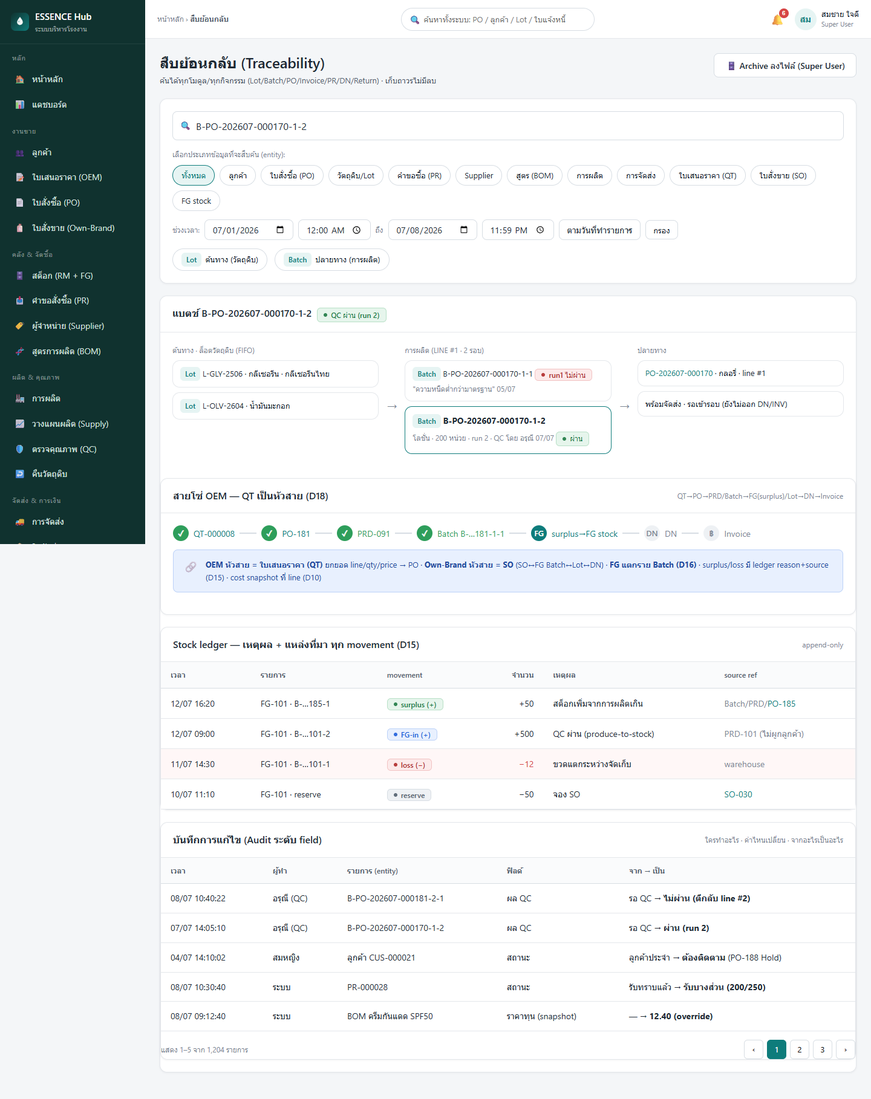
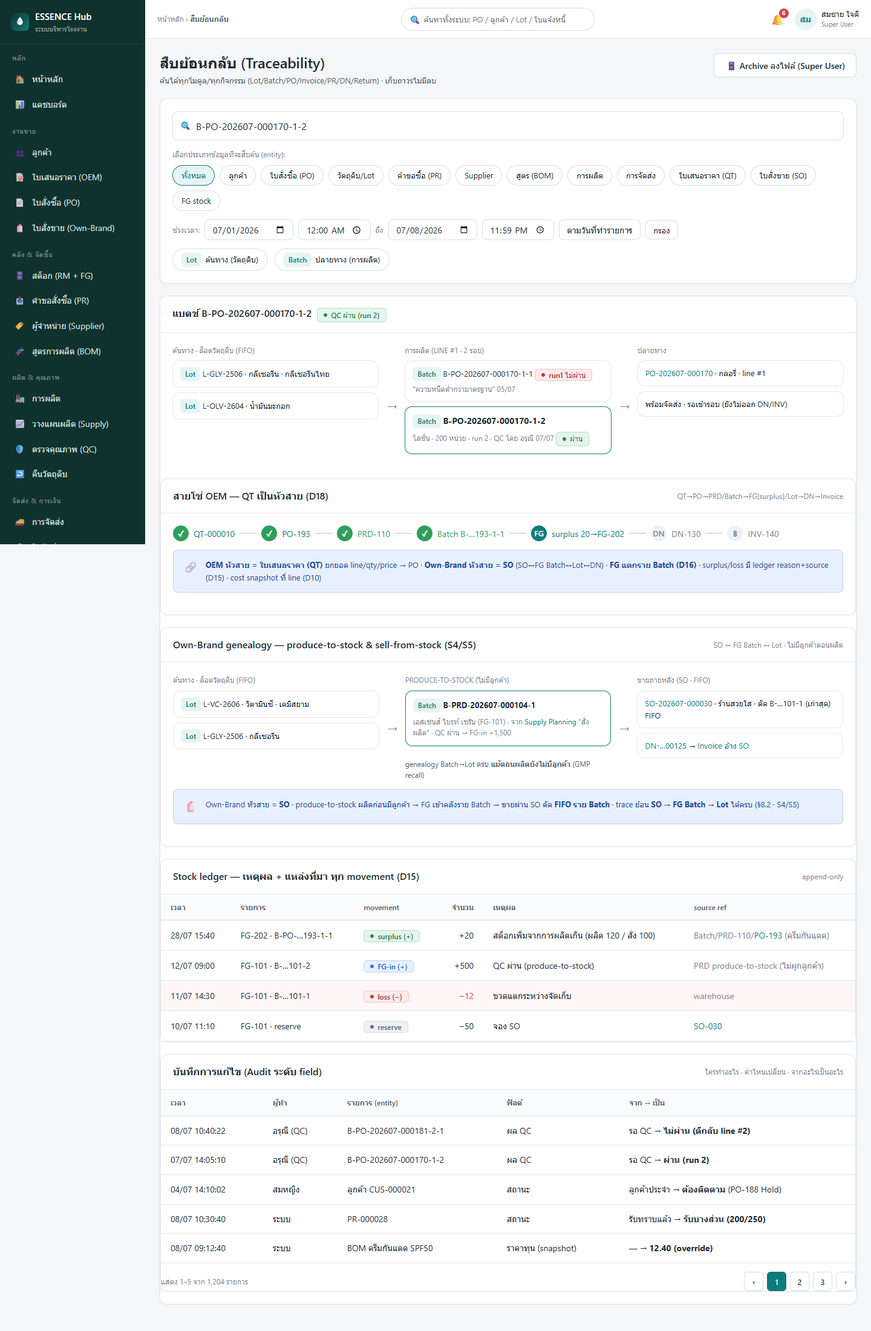
pipeline(erp-v2-ui-first): ux-ui fixed PO punch-list U1-U6 (qc produce-to-stock, RM ledger+loss, OEM surplus->correct FG-202, trace genealogy, PRD dedup, RM-direct) consistent w/ scenarios

diff --git a/docs/design/erp-v2-ui-first/mockups/stock.html b/docs/design/erp-v2-ui-first/mockups/stock.html
@@ -176,24 +176,43 @@ textarea.inp{height:auto;padding:10px 12px;resize:vertical}
      <div class="field"><label>ราคาขาย</label><input class="inp tnum" placeholder="0.00"><div class="help">ใช้เป็น default ตอนขายวัตถุดิบตรงใน PO · <b>ตั้งเป็น 0 ได้</b></div></div></div>
     <div class="footerbar"><button class="btn">ยกเลิก</button><button class="btn btn-primary">บันทึกวัตถุดิบ</button></div>
   </div></div>
- </div></div>
+ </div>
+ <div class="split">
+  <div class="card"><div class="card-h"><h3>การเคลื่อนไหวสต็อกวัตถุดิบ (Ledger · reason + source)</h3><span class="tiny">append-only · D15 · GR/reserve/consume/loss/return/adjust</span></div><div class="card-b" style="padding:0"><div class="tblwrap"><table class="tbl" style="min-width:600px"><thead><tr><th>เวลา</th><th>วัตถุดิบ</th><th>movement</th><th class="num">จำนวน</th><th>เหตุผล</th><th>แหล่งที่มา</th></tr></thead><tbody>
+   <tr><td class="tnum">08/07 10:30</td><td>แอลกอฮอล์</td><td><span class="badge b-processing" style="height:20px">GR (+)</span></td><td class="num tnum">+200</td><td>รับเข้า (ชดเชยติดลบ −30 retro-FIFO)</td><td class="tiny"><a href="goods-receipt.html">Lot L-TT-ALC-2607 · GR-…008 · PR-000028</a></td></tr>
+   <tr style="background:#FFF7F7"><td class="tnum">08/07 15:00</td><td>น้ำหอม</td><td><span class="badge b-error" style="height:20px">return (−)</span></td><td class="num tnum" style="color:var(--error)">−5</td><td>กลิ่นผิดเพี้ยน (คืน supplier)</td><td class="tiny"><a href="return.html">Lot L-ARM-FRG-2606 · RT-…0007 · อโรมา เฮ้าส์</a></td></tr>
+   <tr style="background:#FFF7F7"><td class="tnum">08/07 11:20</td><td>ไทเทเนียมไดออกไซด์</td><td><span class="badge b-error" style="height:20px">loss (−)</span></td><td class="num tnum" style="color:var(--error)">−2</td><td>ผงหกระหว่างชั่ง</td><td class="tiny">warehouse (RM)</td></tr>
+   <tr><td class="tnum">06/07 08:40</td><td>กลีเซอรีน</td><td><span class="badge b-neutral" style="height:20px">CONSUME (−)</span></td><td class="num tnum">−8</td><td>ตัดจริงตอนเริ่มผลิต (FIFO)</td><td class="tiny"><a href="production.html">B-PO-…181-1-1 · PRD-091</a></td></tr>
+   <tr><td class="tnum">05/07 09:15</td><td>ไทเทเนียมไดออกไซด์</td><td><span class="badge b-neutral" style="height:20px">reserve (−ใช้ได้)</span></td><td class="num tnum">−2.5</td><td>จอง PO ยืนยัน</td><td class="tiny"><a href="po-detail.html">PO-202607-000193</a></td></tr>
+  </tbody></table></div><div style="padding:12px 16px"><div class="notify">↩ <b>Return จาก <a href="return.html">ใบคืนของ</a></b> โผล่เป็น movement <code>return (−)</code> ที่นี่ด้วย (S2) · ทุก movement มี <b>เหตุผล + แหล่งที่มา</b> ลิงก์ Lot/PR/PO/PRD — ตอบได้เสมอว่าทำไมยอดขึ้น/ลง (D15)</div></div></div></div>
+  <div class="card"><div class="card-h"><h3>บันทึก loss / ปรับยอดวัตถุดิบ (RM)</h3></div><div class="card-b">
+    <div class="field"><label>วัตถุดิบ / Lot <span class="req">*</span></label><select class="sel"><option>ไทเทเนียมไดออกไซด์ · L-TT-TIO-2606</option><option>กลีเซอรีน · L-GLY-2506</option><option>น้ำหอม · L-ARM-FRG-2606</option></select></div>
+    <div class="grid2"><div class="field"><label>ประเภท</label><select class="sel"><option>loss (ตัดคงคลัง)</option><option>ปรับยอด (adjust)</option></select></div><div class="field"><label>จำนวน <span class="req">*</span></label><input class="inp tnum" placeholder="เช่น 2"></div></div>
+    <div class="field"><label>เหตุผล <span class="req">*</span> <span class="tiny" style="font-weight:400">(บังคับ · D15)</span></label><textarea class="inp" rows="2" placeholder="เช่น ผงหกระหว่างชั่ง / นับสต็อกคลาดเคลื่อน"></textarea></div>
+    <div class="alert alert-warn" style="font-size:13px"><span class="ai">⚠</span><div><b>loss ตัด on_hand อย่างเดียว · ไม่ต้องอนุมัติ · เหตุผลบังคับ</b> (D15) · <b>คืนวัตถุดิบ (Return) ทำที่หน้า <a href="return.html">ใบคืนของ</a></b> แล้วจะโผล่ใน ledger นี้อัตโนมัติเป็น <code>return (−)</code></div></div>
+    <div class="footerbar" style="position:static;margin:0;border:none;padding:0;justify-content:flex-end"><button class="btn btn-primary">บันทึก (ตัดคงคลัง)</button></div>
+  </div></div>
+ </div>
+ </div>
  <div id="tab-fg" style="display:none">
-  <div class="alert alert-info" style="font-size:13px"><span class="ai">ℹ</span><div>FG stock = <b>1 BOM = 1 FG (auto)</b> · 3 ยอดเหมือน RM (<b>คงคลัง / จองแล้ว / ใช้ได้</b>) · <b>แตกราย Batch ตัด FIFO</b> (D16 · คง recall GMP) · เข้าคลังตอน Batch QC ผ่าน (produce-to-stock) หรือ <b>ผลิตเกิน OEM (surplus)</b> ตอน "พร้อมส่ง"</div></div>
+  <div class="alert alert-info" style="font-size:13px"><span class="ai">ℹ</span><div>FG stock = <b>1 BOM = 1 FG (auto)</b> · 3 ยอดเหมือน RM (<b>คงคลัง / จองแล้ว / ใช้ได้</b>) · <b>แตกราย Batch ตัด FIFO</b> (D16 · คง recall GMP) · เข้าคลัง 2 ทาง: (1) <b>produce-to-stock</b> ตอน Batch QC ผ่าน · (2) <b>ผลิตเกิน OEM (surplus)</b> ตอน "พร้อมส่ง" → <b>surplus คง Batch identity ของตัวเอง</b> (= OEM Batch นั้น) ผูก PRD/PO และเข้า <b>FG ที่ถูกตัวสินค้า</b> เพื่อ FIFO/recall ถูกต้อง (D13/D16)</div></div>
   <div class="card"><div class="card-b">
     <div class="toolbar"><div class="l"><h3>สินค้าสำเร็จรูป (FG)</h3><span class="count">6 รายการ</span></div><div class="searchbox"><span class="si">🔍</span><input class="inp" placeholder="ค้นหา FG (กรองทันที)"></div></div>
     <div class="tblwrap"><table class="tbl" style="min-width:840px"><thead><tr><th>FG · Batch (FIFO)</th><th>UOM</th><th class="num">คงคลัง</th><th class="num">จองแล้ว</th><th class="num">ใช้ได้</th><th>ที่มา / เหตุผล (ledger)</th><th></th></tr></thead><tbody>
-     <tr><td><b>เอสเซนส์ ไบรท์ เซรั่ม</b><div class="id">FG-101 · รวม 2 Batch</div></td><td>ขวด</td><td class="num strong tnum">1,200</td><td class="num tnum">150</td><td class="num strong tnum">1,050</td><td class="tiny">produce-to-stock + surplus OEM</td><td class="num"><a href="trace.html">ledger</a></td></tr>
-     <tr style="background:#FAFCFC"><td style="padding-left:34px"><span class="pill">Batch</span> B-PRD-…101-1 <span class="tiny">ผลิต 05/07 · ตัดก่อน</span></td><td class="tiny">ขวด</td><td class="num tnum">700</td><td class="num tnum">50</td><td class="num tnum">650</td><td class="tiny">QC ผ่าน (PRD-101) · <a href="trace.html">source</a></td><td></td></tr>
-     <tr style="background:#FAFCFC"><td style="padding-left:34px"><span class="pill">Batch</span> B-PRD-…101-2 <span class="tiny">ผลิต 12/07</span></td><td class="tiny">ขวด</td><td class="num tnum">500</td><td class="num tnum">100</td><td class="num tnum">400</td><td class="tiny">surplus ผลิตเกิน PO-185 (+50) · <a href="trace.html">source</a></td><td></td></tr>
+     <tr><td><b>เอสเซนส์ ไบรท์ เซรั่ม</b><div class="id">FG-101 · รวม 2 Batch · produce-to-stock (Own-Brand)</div></td><td>ขวด</td><td class="num strong tnum">1,200</td><td class="num tnum">150</td><td class="num strong tnum">1,050</td><td class="tiny">produce-to-stock (ราย Batch)</td><td class="num"><a href="trace.html">ledger</a></td></tr>
+     <tr style="background:#FAFCFC"><td style="padding-left:34px"><span class="pill">Batch</span> B-PRD-…101-1 <span class="tiny">ผลิต 05/07 · ตัดก่อน</span></td><td class="tiny">ขวด</td><td class="num tnum">700</td><td class="num tnum">50</td><td class="num tnum">650</td><td class="tiny">QC ผ่าน (produce-to-stock) · <a href="trace.html">source</a></td><td></td></tr>
+     <tr style="background:#FAFCFC"><td style="padding-left:34px"><span class="pill">Batch</span> B-PRD-…101-2 <span class="tiny">ผลิต 12/07</span></td><td class="tiny">ขวด</td><td class="num tnum">500</td><td class="num tnum">100</td><td class="num tnum">400</td><td class="tiny">QC ผ่าน (produce-to-stock) · <a href="trace.html">source</a></td><td></td></tr>
+     <tr style="background:#F3FBF6"><td><b>ครีมกันแดด SPF50</b> <span class="badge b-neutral plain" style="height:20px">OEM surplus</span><div class="id">FG-202 · 1 Batch (เข้าคลังจากผลิตเกิน OEM)</div></td><td>ขวด</td><td class="num strong tnum">20</td><td class="num tnum">0</td><td class="num strong tnum">20</td><td class="tiny">surplus ผลิตเกิน PO-193 (ครีมกันแดด)</td><td class="num"><a href="trace.html">ledger</a></td></tr>
+     <tr style="background:#FAFCFC"><td style="padding-left:34px"><span class="pill">Batch</span> B-PO-202607-000193-1-1 <span class="tiny">ผลิต 28/07 · surplus OEM (คง Batch identity)</span></td><td class="tiny">ขวด</td><td class="num tnum">20</td><td class="num tnum">0</td><td class="num tnum">20</td><td class="tiny">surplus PO-193 · PRD-110 · <a href="trace.html">source</a></td><td></td></tr>
      <tr><td><b>เอสเซนส์ ลิปบาล์ม</b><div class="id">FG-150 · 1 Batch</div></td><td>หลอด</td><td class="num strong tnum">1,500</td><td class="num tnum">25</td><td class="num strong tnum">1,475</td><td class="tiny">produce-to-stock</td><td class="num"><a href="trace.html">ledger</a></td></tr>
      <tr><td><b>เอสเซนส์ ซันสกรีน SPF50</b><div class="id">FG-204 · 2 Batch</div></td><td>หลอด</td><td class="num strong tnum">2,900</td><td class="num tnum">0</td><td class="num strong tnum">2,900</td><td class="tiny">produce-to-stock</td><td class="num"><a href="trace.html">ledger</a></td></tr>
     </tbody></table></div>
-    <div class="pager"><span class="tiny">แสดง 1–3 จาก 6 FG</span><div class="pages"><button class="pgbtn">‹</button><button class="pgbtn on">1</button><button class="pgbtn ">2</button><button class="pgbtn">›</button></div></div>
+    <div class="pager"><span class="tiny">แสดง 1–4 จาก 6 FG</span><div class="pages"><button class="pgbtn">‹</button><button class="pgbtn on">1</button><button class="pgbtn ">2</button><button class="pgbtn">›</button></div></div>
   </div></div>
   <div class="split">
    <div class="card"><div class="card-h"><h3>การเคลื่อนไหวสต็อก (Ledger · reason + source)</h3><span class="tiny">append-only · D15</span></div><div class="card-b" style="padding:0"><div class="tblwrap"><table class="tbl" style="min-width:520px"><thead><tr><th>เวลา</th><th>ประเภท</th><th class="num">จำนวน</th><th>เหตุผล</th><th>แหล่งที่มา</th></tr></thead><tbody>
-     <tr><td class="tnum">12/07 16:20</td><td><span class="badge b-success" style="height:20px">surplus (+)</span></td><td class="num tnum">+50</td><td>สต็อกเพิ่มจากการผลิตเกิน</td><td class="tiny"><a href="trace.html">B-…185-1 · PRD · PO-185</a></td></tr>
-     <tr><td class="tnum">12/07 09:00</td><td><span class="badge b-processing" style="height:20px">FG-in (+)</span></td><td class="num tnum">+500</td><td>QC ผ่าน (produce-to-stock)</td><td class="tiny"><a href="trace.html">B-…101-2 · PRD-101</a></td></tr>
+     <tr><td class="tnum">28/07 15:40</td><td><span class="badge b-success" style="height:20px">surplus (+)</span></td><td class="num tnum">+20</td><td>สต็อกเพิ่มจากการผลิตเกิน (ผลิต 120 / สั่ง 100)</td><td class="tiny"><a href="trace.html">FG-202 · B-PO-…193-1-1 · PRD-110 · PO-193</a></td></tr>
+     <tr><td class="tnum">12/07 09:00</td><td><span class="badge b-processing" style="height:20px">FG-in (+)</span></td><td class="num tnum">+500</td><td>QC ผ่าน (produce-to-stock)</td><td class="tiny"><a href="trace.html">FG-101 · B-…101-2 · produce-to-stock</a></td></tr>
      <tr style="background:#FFF7F7"><td class="tnum">11/07 14:30</td><td><span class="badge b-error" style="height:20px">loss (−)</span></td><td class="num tnum" style="color:var(--error)">−12</td><td>ขวดแตกระหว่างจัดเก็บ</td><td class="tiny"><a href="trace.html">B-…101-1 (warehouse)</a></td></tr>
      <tr><td class="tnum">10/07 11:10</td><td><span class="badge b-neutral" style="height:20px">reserve (−ใช้ได้)</span></td><td class="num tnum">−50</td><td>จอง SO-030</td><td class="tiny"><a href="so-detail.html">SO-202607-000030</a></td></tr>
     </tbody></table></div><div style="padding:12px 16px"><div class="notify">📦 <b>surplus</b> (ผลิตเกิน OEM) เพิ่มเข้า FG อัตโนมัติตอน "พร้อมส่ง" + <b>remark</b> "สต็อกเพิ่มจากการผลิตเกิน" — <b>ไม่ใช่ approval</b> แค่แจ้งคลัง (D13)</div></div></div></div>

diff --git a/docs/design/erp-v2-ui-first/mockups/qc.html b/docs/design/erp-v2-ui-first/mockups/qc.html
@@ -139,7 +139,7 @@ textarea.inp{height:auto;padding:10px 12px;resize:vertical}
  .mobilebar a{display:flex;flex-direction:column;align-items:center;gap:2px;font-size:11px;color:var(--text2)}
  .mobilebar a .mi{font-size:18px}.mobilebar a.active{color:var(--primary)}
 }
-</style></head><body><div class="drawer-bg" onclick="document.body.classList.remove('nav-open')"></div><div class="app"><aside class="sider"><div class="brand"><svg viewBox="0 0 40 40" width="30" height="30" xmlns="http://www.w3.org/2000/svg"><defs><linearGradient id="eg" x1="0" y1="0" x2="1" y2="1"><stop offset="0" stop-color="#10322F"/><stop offset="1" stop-color="#0E7C7B"/></linearGradient></defs><rect width="40" height="40" rx="10" fill="url(#eg)"/><path d="M20 9c3.6 5.4 6.4 8.2 6.4 11.8a6.4 6.4 0 1 1-12.8 0C13.6 17.2 16.4 14.4 20 9z" fill="#fff" fill-opacity=".95"/><circle cx="17.6" cy="19.5" r="1.7" fill="#0E7C7B" fill-opacity=".35"/></svg><div>ESSENCE Hub<small>ระบบบริหารโรงงาน</small></div></div><div class="menu-group">หลัก</div><nav class="menu"><a href="home.html" class=""><span class="ico">🏠</span>หน้าหลัก</a><a href="dashboard.html" class=""><span class="ico">📊</span>แดชบอร์ด</a></nav><div class="menu-group">งานขาย</div><nav class="menu"><a href="customers.html" class=""><span class="ico">👥</span>ลูกค้า</a><a href="po-list.html" class=""><span class="ico">📄</span>ใบสั่งซื้อ (PO)</a></nav><div class="menu-group">คลัง & จัดซื้อ</div><nav class="menu"><a href="stock.html" class=""><span class="ico">🗄</span>สต็อกวัตถุดิบ</a><a href="purchase-request.html" class=""><span class="ico">📥</span>คำขอสั่งซื้อ (PR)</a><a href="supplier.html" class=""><span class="ico">🏷</span>ผู้จำหน่าย (Supplier)</a><a href="bom.html" class=""><span class="ico">🧬</span>สูตรการผลิต (BOM)</a></nav><div class="menu-group">ผลิต & คุณภาพ</div><nav class="menu"><a href="production.html" class=""><span class="ico">🏭</span>การผลิต</a><a href="qc.html" class="active"><span class="ico">🛡</span>ตรวจคุณภาพ (QC)</a><a href="return.html" class=""><span class="ico">↩</span>คืนวัตถุดิบ</a></nav><div class="menu-group">จัดส่ง & การเงิน</div><nav class="menu"><a href="shipping.html" class=""><span class="ico">🚚</span>การจัดส่ง</a><a href="delivery-note.html" class=""><span class="ico">📦</span>ใบจัดส่ง (DN)</a><a href="invoices.html" class=""><span class="ico">💳</span>ใบแจ้งหนี้</a></nav><div class="menu-group">ระบบ</div><nav class="menu"><a href="trace.html" class=""><span class="ico">🔗</span>สืบย้อนกลับ</a><a href="settings.html" class=""><span class="ico">⚙</span>ตั้งค่าระบบ</a></nav></aside><div class="main">
+</style></head><body><div class="drawer-bg" onclick="document.body.classList.remove('nav-open')"></div><div class="app"><aside class="sider"><div class="brand"><svg viewBox="0 0 40 40" width="30" height="30" xmlns="http://www.w3.org/2000/svg"><defs><linearGradient id="eg" x1="0" y1="0" x2="1" y2="1"><stop offset="0" stop-color="#10322F"/><stop offset="1" stop-color="#0E7C7B"/></linearGradient></defs><rect width="40" height="40" rx="10" fill="url(#eg)"/><path d="M20 9c3.6 5.4 6.4 8.2 6.4 11.8a6.4 6.4 0 1 1-12.8 0C13.6 17.2 16.4 14.4 20 9z" fill="#fff" fill-opacity=".95"/><circle cx="17.6" cy="19.5" r="1.7" fill="#0E7C7B" fill-opacity=".35"/></svg><div>ESSENCE Hub<small>ระบบบริหารโรงงาน</small></div></div><div class="menu-group">หลัก</div><nav class="menu"><a href="home.html" class=""><span class="ico">🏠</span>หน้าหลัก</a><a href="dashboard.html" class=""><span class="ico">📊</span>แดชบอร์ด</a></nav><div class="menu-group">งานขาย</div><nav class="menu"><a href="customers.html" class=""><span class="ico">👥</span>ลูกค้า</a><a href="quotation-list.html" class=""><span class="ico">📝</span>ใบเสนอราคา (OEM)</a><a href="po-list.html" class=""><span class="ico">📄</span>ใบสั่งซื้อ (PO)</a><a href="so-list.html" class=""><span class="ico">🧴</span>ใบสั่งขาย (Own-Brand)</a></nav><div class="menu-group">คลัง & จัดซื้อ</div><nav class="menu"><a href="stock.html" class=""><span class="ico">🗄</span>สต็อก (RM + FG)</a><a href="purchase-request.html" class=""><span class="ico">📥</span>คำขอสั่งซื้อ (PR)</a><a href="supplier.html" class=""><span class="ico">🏷</span>ผู้จำหน่าย (Supplier)</a><a href="bom.html" class=""><span class="ico">🧬</span>สูตรการผลิต (BOM)</a></nav><div class="menu-group">ผลิต & คุณภาพ</div><nav class="menu"><a href="production.html" class=""><span class="ico">🏭</span>การผลิต</a><a href="supply-planning.html" class=""><span class="ico">📈</span>วางแผนผลิต (Supply)</a><a href="qc.html" class="active"><span class="ico">🛡</span>ตรวจคุณภาพ (QC)</a><a href="return.html" class=""><span class="ico">↩</span>คืนวัตถุดิบ</a></nav><div class="menu-group">จัดส่ง & การเงิน</div><nav class="menu"><a href="shipping.html" class=""><span class="ico">🚚</span>การจัดส่ง</a><a href="delivery-note.html" class=""><span class="ico">📦</span>ใบจัดส่ง (DN)</a><a href="invoices.html" class=""><span class="ico">💳</span>ใบแจ้งหนี้</a></nav><div class="menu-group">ระบบ</div><nav class="menu"><a href="trace.html" class=""><span class="ico">🔗</span>สืบย้อนกลับ</a><a href="settings.html" class=""><span class="ico">⚙</span>ตั้งค่าระบบ</a></nav></aside><div class="main">
   <div class="header"><button class="hamb" onclick="document.body.classList.toggle('nav-open')">☰</button>
    <div style="min-width:0"><div class="crumb">หน้าหลัก › <b>ตรวจคุณภาพ</b></div></div>
    <div class="gsearch"><span class="si">🔍</span><input placeholder="ค้นหาทั้งระบบ: PO / ลูกค้า / Lot / ใบแจ้งหนี้"></div>
@@ -149,7 +149,7 @@ textarea.inp{height:auto;padding:10px 12px;resize:vertical}
  <div class="noti-f"><a href="trace.html">ดูกิจกรรมทั้งหมด</a></div></div></div><div class="userbox"><div class="avatar">สม</div><div><div class="nm">สมชาย ใจดี</div><div class="rl">QA/QC</div></div></div></div></div>
   <div class="content">
  <div class="pagehead"><div><h1>ตรวจคุณภาพ (QC)</h1><div class="sub">ตรวจรับวัตถุดิบขาเข้า และอนุมัติแบตช์การผลิตตาม GMP</div></div></div>
- <div class="tabs"><a class="active" onclick="qcTab(0,this)">📥 ตรวจรับวัตถุดิบ <span class="count">4</span></a><a onclick="qcTab(1,this)">🧪 ตรวจแบตช์ <span class="count">2</span></a></div>
+ <div class="tabs"><a class="active" onclick="qcTab(0,this)">📥 ตรวจรับวัตถุดิบ <span class="count">4</span></a><a onclick="qcTab(1,this)">🧪 ตรวจแบตช์ <span class="count">4</span></a></div>
  <script>function qcTab(i,el){document.querySelectorAll('.tabs a').forEach(function(a){a.classList.remove('active')});el.classList.add('active');document.getElementById('qc-in').style.display=i===0?'grid':'none';document.getElementById('qc-batch').style.display=i===1?'grid':'none';}</script>
  <div class="split" id="qc-in">
   <div class="card"><div class="card-b"><h3 style="margin-bottom:12px">ล็อตวัตถุดิบรอตรวจรับ</h3>
@@ -173,8 +173,18 @@ textarea.inp{height:auto;padding:10px 12px;resize:vertical}
     <div class="tblwrap"><table class="tbl"><thead><tr><th>แบตช์</th><th>PO / line</th><th class="num">จำนวน</th><th>สถานะ</th><th></th></tr></thead><tbody>
      <tr style="background:var(--primary-bg)"><td><b>B-PO-202607-000181-1-1</b><div class="id">โลชั่นบำรุงผิว · ผลิตครั้งที่ 1</div></td><td><a href="po-detail.html">PO-202607-000181</a><div class="id">line #1</div></td><td class="num tnum">200</td><td><span class="badge b-warning">รอ QC</span></td><td class="num">กำลังตรวจ</td></tr>
      <tr style="background:#FFF7F7"><td><b>B-PO-202607-000181-2-2</b> <span class="badge b-error" style="height:20px">Rework</span><div class="id">โฟมล้างหน้า · ผลิตครั้งที่ 2</div><div class="tiny" style="color:#B02A2A">ประวัติ: run 1 (B-…-2-1) ไม่ผ่าน — "เนื้อโฟมเป็นก้อน ปั๊มไม่ออก"</div></td><td><a href="po-detail.html">PO-202607-000181</a><div class="id">line #2</div></td><td class="num tnum">300</td><td><span class="badge b-warning">รอ QC (ผลิตซ้ำ)</span></td><td class="num"><a href="#">ตรวจ</a></td></tr>
-    </tbody></table></div><div class="pager"><span class="tiny">แสดง 1–2 จาก 2 รายการ</span><div class="pages"><button class="pgbtn">‹</button><button class="pgbtn on">1</button><button class="pgbtn">›</button></div></div>
+     <tr><td><b>B-PO-202607-000195-1-1</b> <span class="badge b-neutral" style="height:20px">RM-direct</span><div class="id">กลีเซอรีน (ขายวัตถุดิบตรง)</div><div class="tiny" style="color:var(--text2)">line วัตถุดิบตรง — ยังผ่านขั้นผลิต/QC (D3)</div></td><td><a href="po-detail.html">PO-202607-000195</a><div class="id">line #1</div></td><td class="num tnum">50 กก.</td><td><span class="badge b-warning">รอ QC</span></td><td class="num"><a href="#">ตรวจ</a></td></tr>
+    </tbody></table></div><div class="pager"><span class="tiny">แสดง 1–3 จาก 3 รายการ (ผูก PO/ลูกค้า)</span><div class="pages"><button class="pgbtn">‹</button><button class="pgbtn on">1</button><button class="pgbtn">›</button></div></div>
     <div class="alert alert-warn" style="margin:14px 0 0;font-size:12px"><span class="ai">⚖</span><div><b>PO-202607-000181</b> มี 2 line (2 แบตช์) — ต้องผ่านทั้ง 2 แบตช์ PO จึงจะ "พร้อมจัดส่ง" (reconcile ที่ PO) · ถ้าแบตช์ใดไม่ผ่าน ตีกลับเฉพาะแบตช์นั้น line ที่ผ่านรออยู่</div></div>
+    <div style="margin-top:16px;border-top:1px dashed var(--border);padding-top:14px">
+     <div style="font-size:13px;font-weight:600;margin-bottom:6px">แบตช์ผลิตเก็บสต็อก (produce-to-stock · ไม่ผูกลูกค้า)</div>
+     <div class="tblwrap"><table class="tbl"><thead><tr><th>แบตช์</th><th>ที่มา</th><th class="num">จำนวน</th><th>สถานะ</th><th></th></tr></thead><tbody>
+      <tr style="background:#F3FBF6"><td><b>B-PRD-202607-000104-1</b><div class="id">เอสเซนส์ ไบรท์ เซรั่ม (FG-101)</div></td><td>Supply Planning "สั่งผลิต"<div class="id">— ไม่มี PO / ลูกค้า</div></td><td class="num tnum">1,500</td><td><span class="badge b-warning">รอ QC</span></td><td class="num"><a href="#">ตรวจ</a></td></tr>
+     </tbody></table></div>
+     <div class="alert alert-info" style="font-size:13px;margin-top:12px"><span class="ai">🧴</span><div>แบตช์นี้ <b>ไม่ผูก PO/ลูกค้า</b> (มาจาก <a href="supply-planning.html">Supply Planning</a> "สั่งผลิต" FG-101 · PRD-202607-000104) · <b>"ผ่าน" → FG เข้าคลังราย Batch อัตโนมัติ</b> (D12) → เห็นเป็น <code>FG-in (+1,500)</code> ที่แท็บ FG ของ <a href="stock.html">สต็อก</a> · genealogy Batch→Lot ครบแม้ยังไม่มีลูกค้า (S4)</div></div>
+     <div class="field" style="margin-top:12px"><label>ผลการตรวจแบตช์นี้ <span class="req">*</span></label><div style="display:flex;gap:10px"><label class="chip on" style="flex:1;justify-content:center">✓ ผ่าน (FG-101 เข้าคลังราย Batch)</label><label class="chip" style="flex:1;justify-content:center">✕ ไม่ผ่าน</label></div></div>
+     <div class="footerbar" style="position:static;margin:12px 0 0;border:none;padding:0;justify-content:flex-end"><button class="btn btn-primary">บันทึกผล + นำ FG เข้าคลัง</button></div>
+    </div>
     </div></div>
   <div class="card"><div class="card-h"><h3>ตรวจแบตช์: B-PO-202607-000181-1-1</h3><span class="badge b-warning" style="height:22px">รอ QC</span></div><div class="card-b">
     <dl class="kv" style="grid-template-columns:1fr 1fr;gap:8px 12px;margin-bottom:14px"><div><dt class="tiny">สินค้า</dt><dd>โลชั่นบำรุงผิว × 200</dd></div><div><dt class="tiny">จาก PO / line</dt><dd><a href="po-detail.html">PO-202607-000181</a> · line #1 · ผลิตครั้งที่ 1</dd></div><div><dt class="tiny">งานผลิต / ผู้ผลิต</dt><dd>PRD-202607-000091 · วิชัย</dd></div><div><dt class="tiny">ผลิตเสร็จ</dt><dd class="tnum">08/07/2569 14:20</dd></div></dl>

diff --git a/docs/design/erp-v2-ui-first/mockups/trace.html b/docs/design/erp-v2-ui-first/mockups/trace.html
@@ -167,19 +167,35 @@ textarea.inp{height:auto;padding:10px 12px;resize:vertical}
  </div>
  <div class="card"><div class="card-h"><h3>สายโซ่ OEM — QT เป็นหัวสาย (D18)</h3><span class="tiny">QT→PO→PRD/Batch→FG(surplus)/Lot→DN→Invoice</span></div><div class="card-b">
    <div class="flow" style="gap:2px">
-    <div class="s done"><span class="n">✓</span><a href="quotation-detail.html">QT-000008</a></div><div class="line"></div>
-    <div class="s done"><span class="n">✓</span><a href="po-detail.html">PO-181</a></div><div class="line"></div>
-    <div class="s done"><span class="n">✓</span>PRD-091</div><div class="line"></div>
-    <div class="s done"><span class="n">✓</span>Batch B-…181-1-1</div><div class="line"></div>
-    <div class="s cur"><span class="n">FG</span>surplus→FG stock</div><div class="line"></div>
-    <div class="s"><span class="n">DN</span>DN</div><div class="line"></div>
-    <div class="s"><span class="n">฿</span>Invoice</div>
+    <div class="s done"><span class="n">✓</span><a href="quotation-detail.html">QT-000010</a></div><div class="line"></div>
+    <div class="s done"><span class="n">✓</span><a href="po-detail.html">PO-193</a></div><div class="line"></div>
+    <div class="s done"><span class="n">✓</span>PRD-110</div><div class="line"></div>
+    <div class="s done"><span class="n">✓</span>Batch B-…193-1-1</div><div class="line"></div>
+    <div class="s cur"><span class="n">FG</span>surplus 20→FG-202</div><div class="line"></div>
+    <div class="s"><span class="n">DN</span>DN-130</div><div class="line"></div>
+    <div class="s"><span class="n">฿</span>INV-140</div>
    </div>
    <div class="alert alert-info" style="margin-top:14px;font-size:13px"><span class="ai">🔗</span><div><b>OEM หัวสาย = ใบเสนอราคา (QT)</b> ยกยอด line/qty/price → PO · <b>Own-Brand หัวสาย = SO</b> (SO↔FG Batch↔Lot↔DN) · <b>FG แตกราย Batch (D16)</b> · surplus/loss มี ledger reason+source (D15) · cost snapshot ที่ line (D10)</div></div>
  </div></div>
+ <div class="card"><div class="card-h"><h3>Own-Brand genealogy — produce-to-stock &amp; sell-from-stock (S4/S5)</h3><span class="tiny">SO ↔ FG Batch ↔ Lot · ไม่มีลูกค้าตอนผลิต</span></div><div class="card-b">
+  <div class="tblwrap"><div style="display:flex;gap:0;min-width:680px">
+   <div style="flex:1"><div class="tiny" style="text-transform:uppercase;margin-bottom:8px">ต้นทาง · ล็อตวัตถุดิบ (FIFO)</div>
+     <div class="card" style="margin-bottom:8px;box-shadow:none"><div class="card-b" style="padding:10px 12px;font-size:13px"><span class="pill">Lot</span> L-VC-2606 · วิตามินซี · เคมีสยาม</div></div>
+     <div class="card" style="box-shadow:none"><div class="card-b" style="padding:10px 12px;font-size:13px"><span class="pill">Lot</span> L-GLY-2506 · กลีเซอรีน</div></div></div>
+   <div style="display:grid;place-items:center;padding:0 12px;color:var(--text3);font-size:22px">→</div>
+   <div style="flex:1"><div class="tiny" style="text-transform:uppercase;margin-bottom:8px">produce-to-stock (ไม่มีลูกค้า)</div>
+     <div class="card" style="box-shadow:none;border-color:var(--primary)"><div class="card-b" style="padding:12px;font-size:13px"><span class="pill">Batch</span> <b>B-PRD-202607-000104-1</b><div class="tiny" style="margin-top:6px">เอสเซนส์ ไบรท์ เซรั่ม (FG-101) · จาก <a href="supply-planning.html">Supply Planning</a> "สั่งผลิต" · QC ผ่าน → FG-in +1,500</div></div></div>
+     <div class="tiny" style="margin-top:8px;color:var(--text2)">genealogy Batch→Lot ครบ <b>แม้ตอนผลิตยังไม่มีลูกค้า</b> (GMP recall)</div></div>
+   <div style="display:grid;place-items:center;padding:0 12px;color:var(--text3);font-size:22px">→</div>
+   <div style="flex:1"><div class="tiny" style="text-transform:uppercase;margin-bottom:8px">ขายภายหลัง (SO · FIFO)</div>
+     <div class="card" style="box-shadow:none;margin-bottom:8px"><div class="card-b" style="padding:10px 12px;font-size:13px"><a href="so-detail.html">SO-202607-000030</a> · ร้านสวยใส · ตัด B-…101-1 (เก่าสุด) FIFO</div></div>
+     <div class="card" style="box-shadow:none"><div class="card-b" style="padding:10px 12px;font-size:13px"><a href="delivery-note.html">DN-…00125</a> → <a href="invoice-detail.html">Invoice อ้าง SO</a></div></div></div>
+  </div></div>
+  <div class="alert alert-info" style="margin-top:14px;font-size:13px"><span class="ai">🧴</span><div>Own-Brand หัวสาย = <b>SO</b> · produce-to-stock ผลิตก่อนมีลูกค้า → FG เข้าคลังราย Batch → ขายผ่าน SO ตัด <b>FIFO ราย Batch</b> · trace ย้อน <b>SO → FG Batch → Lot</b> ได้ครบ (§8.2 · S4/S5)</div></div>
+ </div></div>
  <div class="card"><div class="card-h"><h3>Stock ledger — เหตุผล + แหล่งที่มา ทุก movement (D15)</h3><span class="tiny">append-only</span></div><div class="card-b" style="padding:0"><div class="tblwrap"><table class="tbl" style="min-width:640px"><thead><tr><th>เวลา</th><th>รายการ</th><th>movement</th><th class="num">จำนวน</th><th>เหตุผล</th><th>source ref</th></tr></thead><tbody>
-   <tr><td class="tnum">12/07 16:20</td><td>FG-101 · B-…185-1</td><td><span class="badge b-success" style="height:20px">surplus (+)</span></td><td class="num tnum">+50</td><td>สต็อกเพิ่มจากการผลิตเกิน</td><td class="tiny">Batch/PRD/<a href="po-detail.html">PO-185</a></td></tr>
-   <tr><td class="tnum">12/07 09:00</td><td>FG-101 · B-…101-2</td><td><span class="badge b-processing" style="height:20px">FG-in (+)</span></td><td class="num tnum">+500</td><td>QC ผ่าน (produce-to-stock)</td><td class="tiny">PRD-101 (ไม่ผูกลูกค้า)</td></tr>
+   <tr><td class="tnum">28/07 15:40</td><td>FG-202 · B-PO-…193-1-1</td><td><span class="badge b-success" style="height:20px">surplus (+)</span></td><td class="num tnum">+20</td><td>สต็อกเพิ่มจากการผลิตเกิน (ผลิต 120 / สั่ง 100)</td><td class="tiny">Batch/PRD-110/<a href="po-detail.html">PO-193</a> (ครีมกันแดด)</td></tr>
+   <tr><td class="tnum">12/07 09:00</td><td>FG-101 · B-…101-2</td><td><span class="badge b-processing" style="height:20px">FG-in (+)</span></td><td class="num tnum">+500</td><td>QC ผ่าน (produce-to-stock)</td><td class="tiny">PRD produce-to-stock (ไม่ผูกลูกค้า)</td></tr>
    <tr style="background:#FFF7F7"><td class="tnum">11/07 14:30</td><td>FG-101 · B-…101-1</td><td><span class="badge b-error" style="height:20px">loss (−)</span></td><td class="num tnum" style="color:var(--error)">−12</td><td>ขวดแตกระหว่างจัดเก็บ</td><td class="tiny">warehouse</td></tr>
    <tr><td class="tnum">10/07 11:10</td><td>FG-101 · reserve</td><td><span class="badge b-neutral" style="height:20px">reserve</span></td><td class="num tnum">−50</td><td>จอง SO</td><td class="tiny"><a href="so-detail.html">SO-030</a></td></tr>
   </tbody></table></div></div></div>

diff --git a/docs/design/erp-v2-ui-first/mockups/so-list.html b/docs/design/erp-v2-ui-first/mockups/so-list.html
@@ -156,7 +156,7 @@ textarea.inp{height:auto;padding:10px 12px;resize:vertical}
    <div class="tblwrap"><table class="tbl" style="min-width:760px"><thead><tr><th>เลข SO</th><th>ประเภท</th><th>ลูกค้า</th><th class="num">ยอด+VAT</th><th>สถานะ</th><th></th></tr></thead><tbody>
     <tr><td class="strong">SO-202607-000031</td><td><span class="badge b-neutral plain" style="height:20px">🧴 ขายจากสต็อก</span></td><td>บิวตี้ เอเชีย</td><td class="num strong tnum">45,000</td><td><span class="badge b-processing">ยืนยันแล้ว · จอง FG</span></td><td class="num"><a href="so-detail.html">เปิด</a></td></tr>
     <tr><td class="strong">SO-202607-000030</td><td><span class="badge b-neutral plain" style="height:20px">🧴 ขายจากสต็อก</span></td><td>ร้านสวยใส</td><td class="num strong tnum">12,840</td><td><span class="badge b-warning">พร้อมจัดส่ง</span></td><td class="num"><a href="so-detail.html">เปิด</a></td></tr>
-    <tr><td class="strong">SO-202607-000028</td><td><span class="badge b-neutral plain" style="height:20px">🏭 ผลิตเก็บสต็อก</span></td><td class="tiny">— (ไม่ผูกลูกค้า)</td><td class="num tnum">—</td><td><span class="badge b-processing">กำลังผลิต · PRD-202607-000104</span></td><td class="num"><a href="so-detail.html">เปิด</a></td></tr>
+    <tr><td class="strong">SO-202607-000028</td><td><span class="badge b-neutral plain" style="height:20px">🏭 ผลิตเก็บสต็อก</span></td><td class="tiny">— (ไม่ผูกลูกค้า)</td><td class="num tnum">—</td><td><span class="badge b-processing">กำลังผลิต · PRD-202607-000106</span></td><td class="num"><a href="so-detail.html">เปิด</a></td></tr>
     <tr><td class="strong">SO-202607-000026</td><td><span class="badge b-neutral plain" style="height:20px">🧴 ขายจากสต็อก</span></td><td>เดอร์มา แคร์</td><td class="num strong tnum">30,240</td><td><span class="badge b-success">ส่งถึงแล้ว</span> <span class="badge b-warning" style="height:20px">รอชำระ</span></td><td class="num"><a href="so-detail.html">เปิด</a></td></tr>
     <tr><td class="strong">SO-202607-000024</td><td><span class="badge b-neutral plain" style="height:20px">🏭 ผลิตเก็บสต็อก</span></td><td class="tiny">— (ไม่ผูกลูกค้า)</td><td class="num tnum">—</td><td><span class="badge b-success">เข้าคลังแล้ว (FG +1,000)</span></td><td class="num"><a href="so-detail.html">เปิด</a></td></tr>
     <tr><td class="strong">SO-202607-000022</td><td><span class="badge b-neutral plain" style="height:20px">🧴 ขายจากสต็อก</span></td><td>กลอรี่ คอสเมติก</td><td class="num strong tnum">8,560</td><td><span class="badge b-neutral">ร่าง</span></td><td class="num"><a href="so-detail.html">เปิด</a></td></tr>
